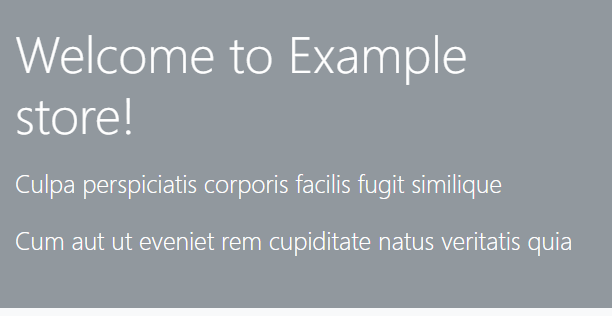
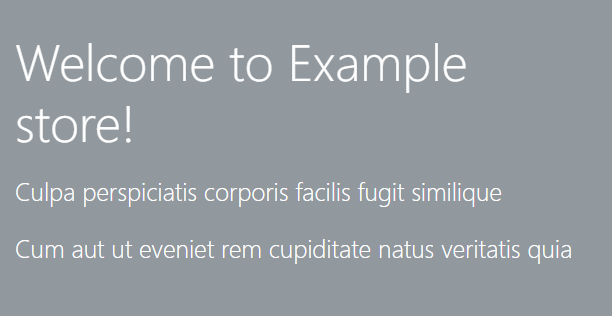
try fixes first tests

diff --git a/test/hermione/apiMock.js b/test/hermione/apiMock.js
@@ -1,6 +1,6 @@
 const { products, product } = require("../data");
 
-exports.productsMock = async function productsMock(browser) {
+async function productsMock(browser) {
     const dataMock = await browser.mock('**' + '/api/products', {
         method: 'get'
     });
@@ -14,7 +14,7 @@ exports.productsMock = async function productsMock(browser) {
     return response;
 };
 
-exports.productMock = async function productMock(id, browser) {
+async function productMock(id, browser) {
     const dataMock = await browser.mock('**' + '/api/products/' + id, {
         method: 'get'
     });
@@ -27,3 +27,19 @@ exports.productMock = async function productMock(id, browser) {
 
     return response;    
 }
+
+async function checkoutMock(browser) {
+    const dataMock = await browser.mock('**' + '/api/checkout', {
+        method: 'post'
+    });
+
+    const response = {id: 1};
+
+    dataMock.respond(response, {
+        fetchResponse: false,
+    });
+
+    return response;    
+}
+
+module.exports = {checkoutMock, productMock, productsMock};

diff --git a/test/hermione/catalog.hermione.js b/test/hermione/catalog.hermione.js
@@ -51,12 +51,14 @@ describe('catalog test', function() {
 
             await this.browser.assertView('one item in cart', '.Product', {
                 compositeImage: true,
+                screenshotDelay: 200,
             });
 
             await addToCart(this.browser);
 
             await this.browser.assertView('two items in cart', '.Product', {
                 compositeImage: true,
+                screenshotDelay: 200,
             });
         } finally {
             await this.browser.execute('localStorage.clear()');
@@ -71,12 +73,5 @@ describe('catalog test', function() {
         await browser.execute((selector) => {
             document.querySelector(selector).blur();
         }, '.ProductDetails-AddToCart');
-        await button.waitUntil(async function() {
-            return (await this.isFocused()) === false;
-        }, {
-            timeout: 1000,
-            timeoutMsg: 'button still focused',
-        });
-        await new Promise(resolve => setTimeout(resolve, 200));
     }
 });

diff --git a/test/hermione/static.hermione.js b/test/hermione/static.hermione.js
@@ -3,11 +3,9 @@ const { mobile } = require("./mobile");
 describe('pages url test', function() {
     async function home(browser) {
         await browser.url('/hw/store/');
-        const content = await browser.$('.row');
-        await content.waitForExist();
-        await content.scrollIntoView();           
         await browser.assertView('plain', '.row', {
             compositeImage: true,
+            screenshotDelay: 200,
         });     
     }
 

diff --git a/test/hermione/cart.hermione.js b/test/hermione/cart.hermione.js
@@ -1,8 +1,9 @@
-const { productMock } = require("./apiMock");
+const { productMock, checkoutMock } = require("./apiMock");
 
 describe('cart test', function() {
     it('cart processing', async function() {
         await productMock(0, this.browser);
+        await checkoutMock(this.browser);
         await this.browser.url('/hw/store/catalog/0');
 
         const button = await this.browser.$('.Product button');
